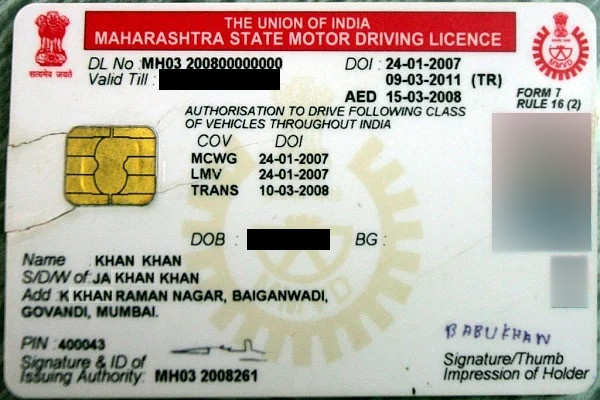
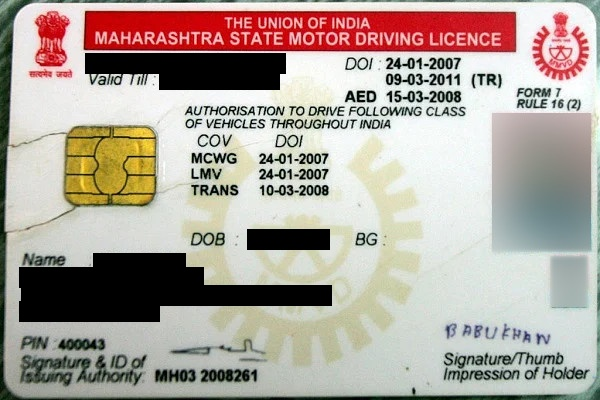
Enhanced Accuracy of masking sensitive data

Changed region(s): [[0.03, 0.63, 0.57, 0.81], [0.12, 0.12, 0.48, 0.21]]

diff --git a/app.py b/app.py
@@ -106,6 +106,7 @@ def get_json_data(response):
 
 def mask_image(image_path, result_json):
     image = cv2.imread(image_path)
+    
     # Sensitive information to mask
     sensitive_info = [
         result_json.get("name"), 
@@ -116,24 +117,45 @@ def mask_image(image_path, result_json):
         result_json.get("Expiry Date")
     ]
     sensitive_info = [str(info) for info in sensitive_info if info is not None]
-
+    
+    # Break sensitive info into smaller chunks
+    chunks = []
+    for info in sensitive_info:
+        # Add the whole string
+        chunks.append(info)
+        # Also add individual parts split by spaces
+        parts = info.split()
+        for part in parts:
+            if len(part) >= 3:  # Only consider chunks of reasonable length
+                chunks.append(part)
 
     reader = easyocr.Reader(['en'])
     ocr_results = reader.readtext(image)
 
     for (bbox, text, prob) in ocr_results:
-        normalized_text = text.replace(" ", "")  # Normalize OCR-detected text
-
-        if any(s in normalized_text for s in sensitive_info):  # Match normalized text
-            # Get bounding box coordinates
-            (top_left, top_right, bottom_right, bottom_left) = bbox
-            x_min = int(top_left[0])
-            y_min = int(top_left[1])
-            x_max = int(bottom_right[0])
-            y_max = int(bottom_right[1])
+        # Check if the OCR text matches or is contained in any sensitive info
+        detected_text = text.strip()
+        
+        # Skip very short text (likely to cause false positives)
+        if len(detected_text) < 3:
+            continue
             
-            # Apply a black mask over the detected text
-            cv2.rectangle(image, (x_min, y_min), (x_max, y_max), (0, 0, 0), -1)
+        for chunk in chunks:
+            # Case-insensitive comparison
+            if (detected_text.lower() in chunk.lower() or 
+                chunk.lower() in detected_text.lower()):
+                
+                # Get bounding box coordinates
+                (top_left, top_right, bottom_right, bottom_left) = bbox
+                x_min = int(top_left[0])
+                y_min = int(top_left[1])
+                x_max = int(bottom_right[0])
+                y_max = int(bottom_right[1])
+                
+                # Apply a black mask over the detected text
+                cv2.rectangle(image, (x_min, y_min), (x_max, y_max), (0, 0, 0), -1)
+                break
+                
     cv2.imwrite("masked_document.jpg", image)
     print("Masked Image Saved")
 
